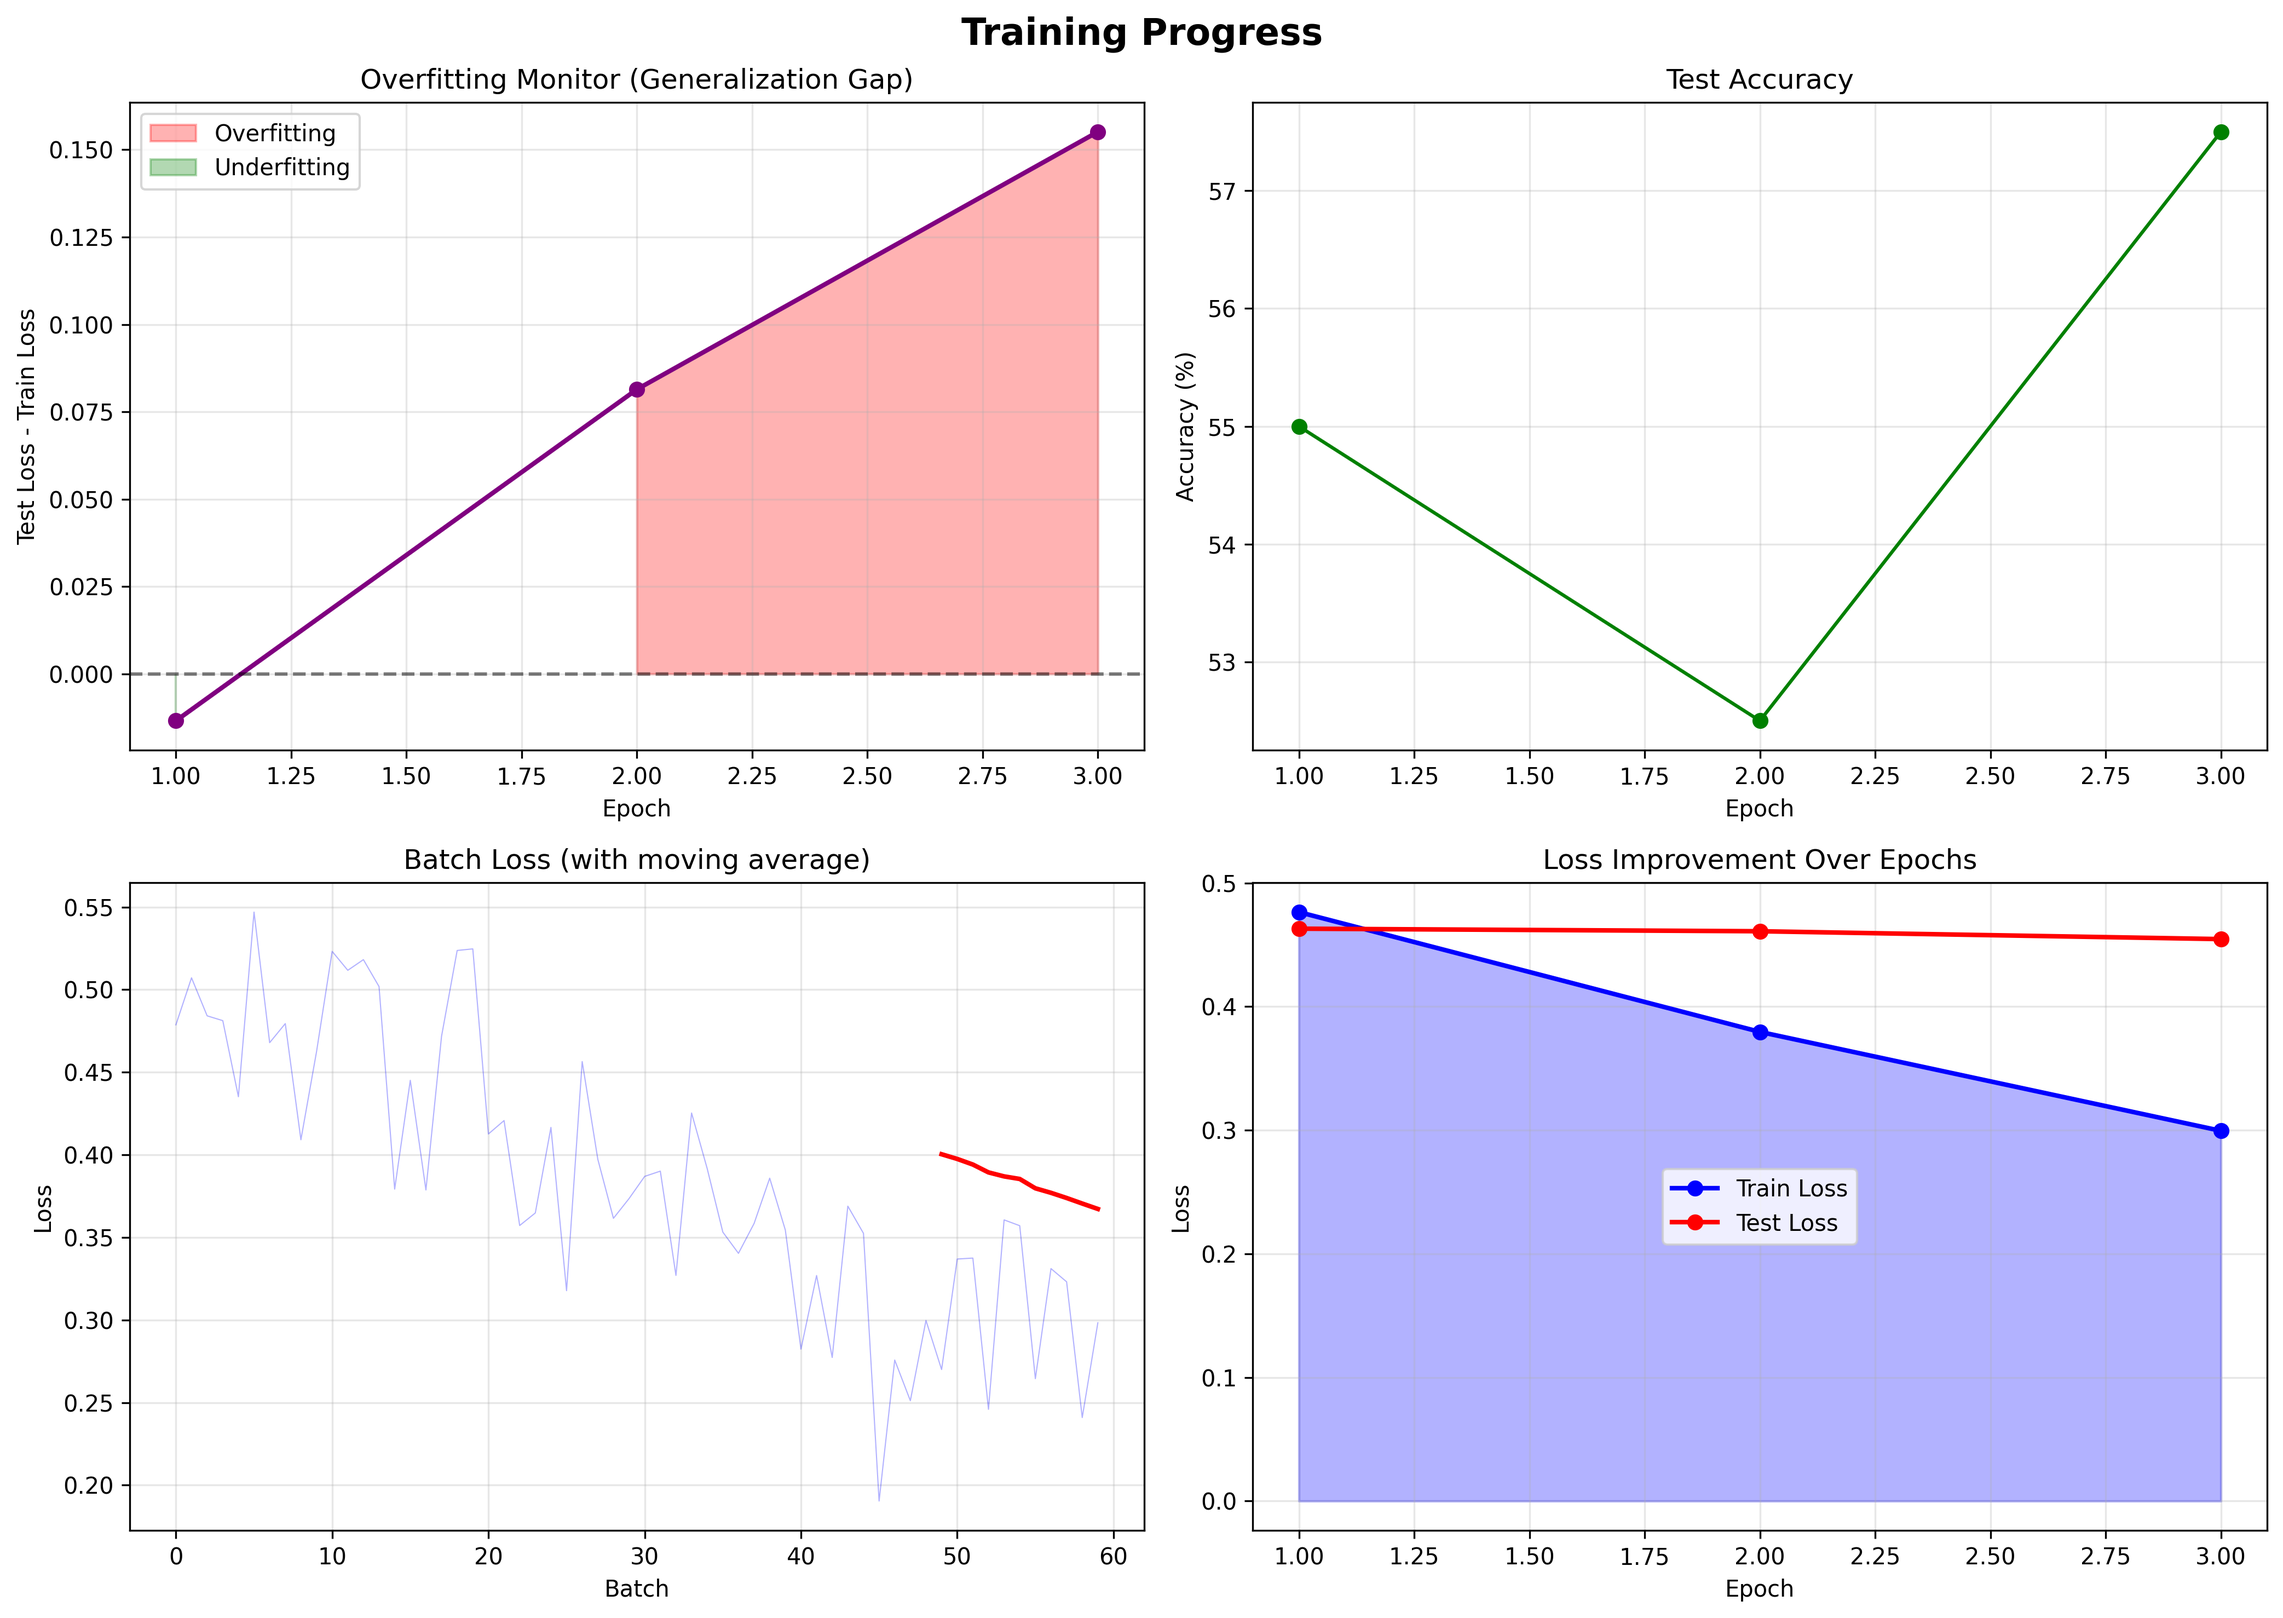
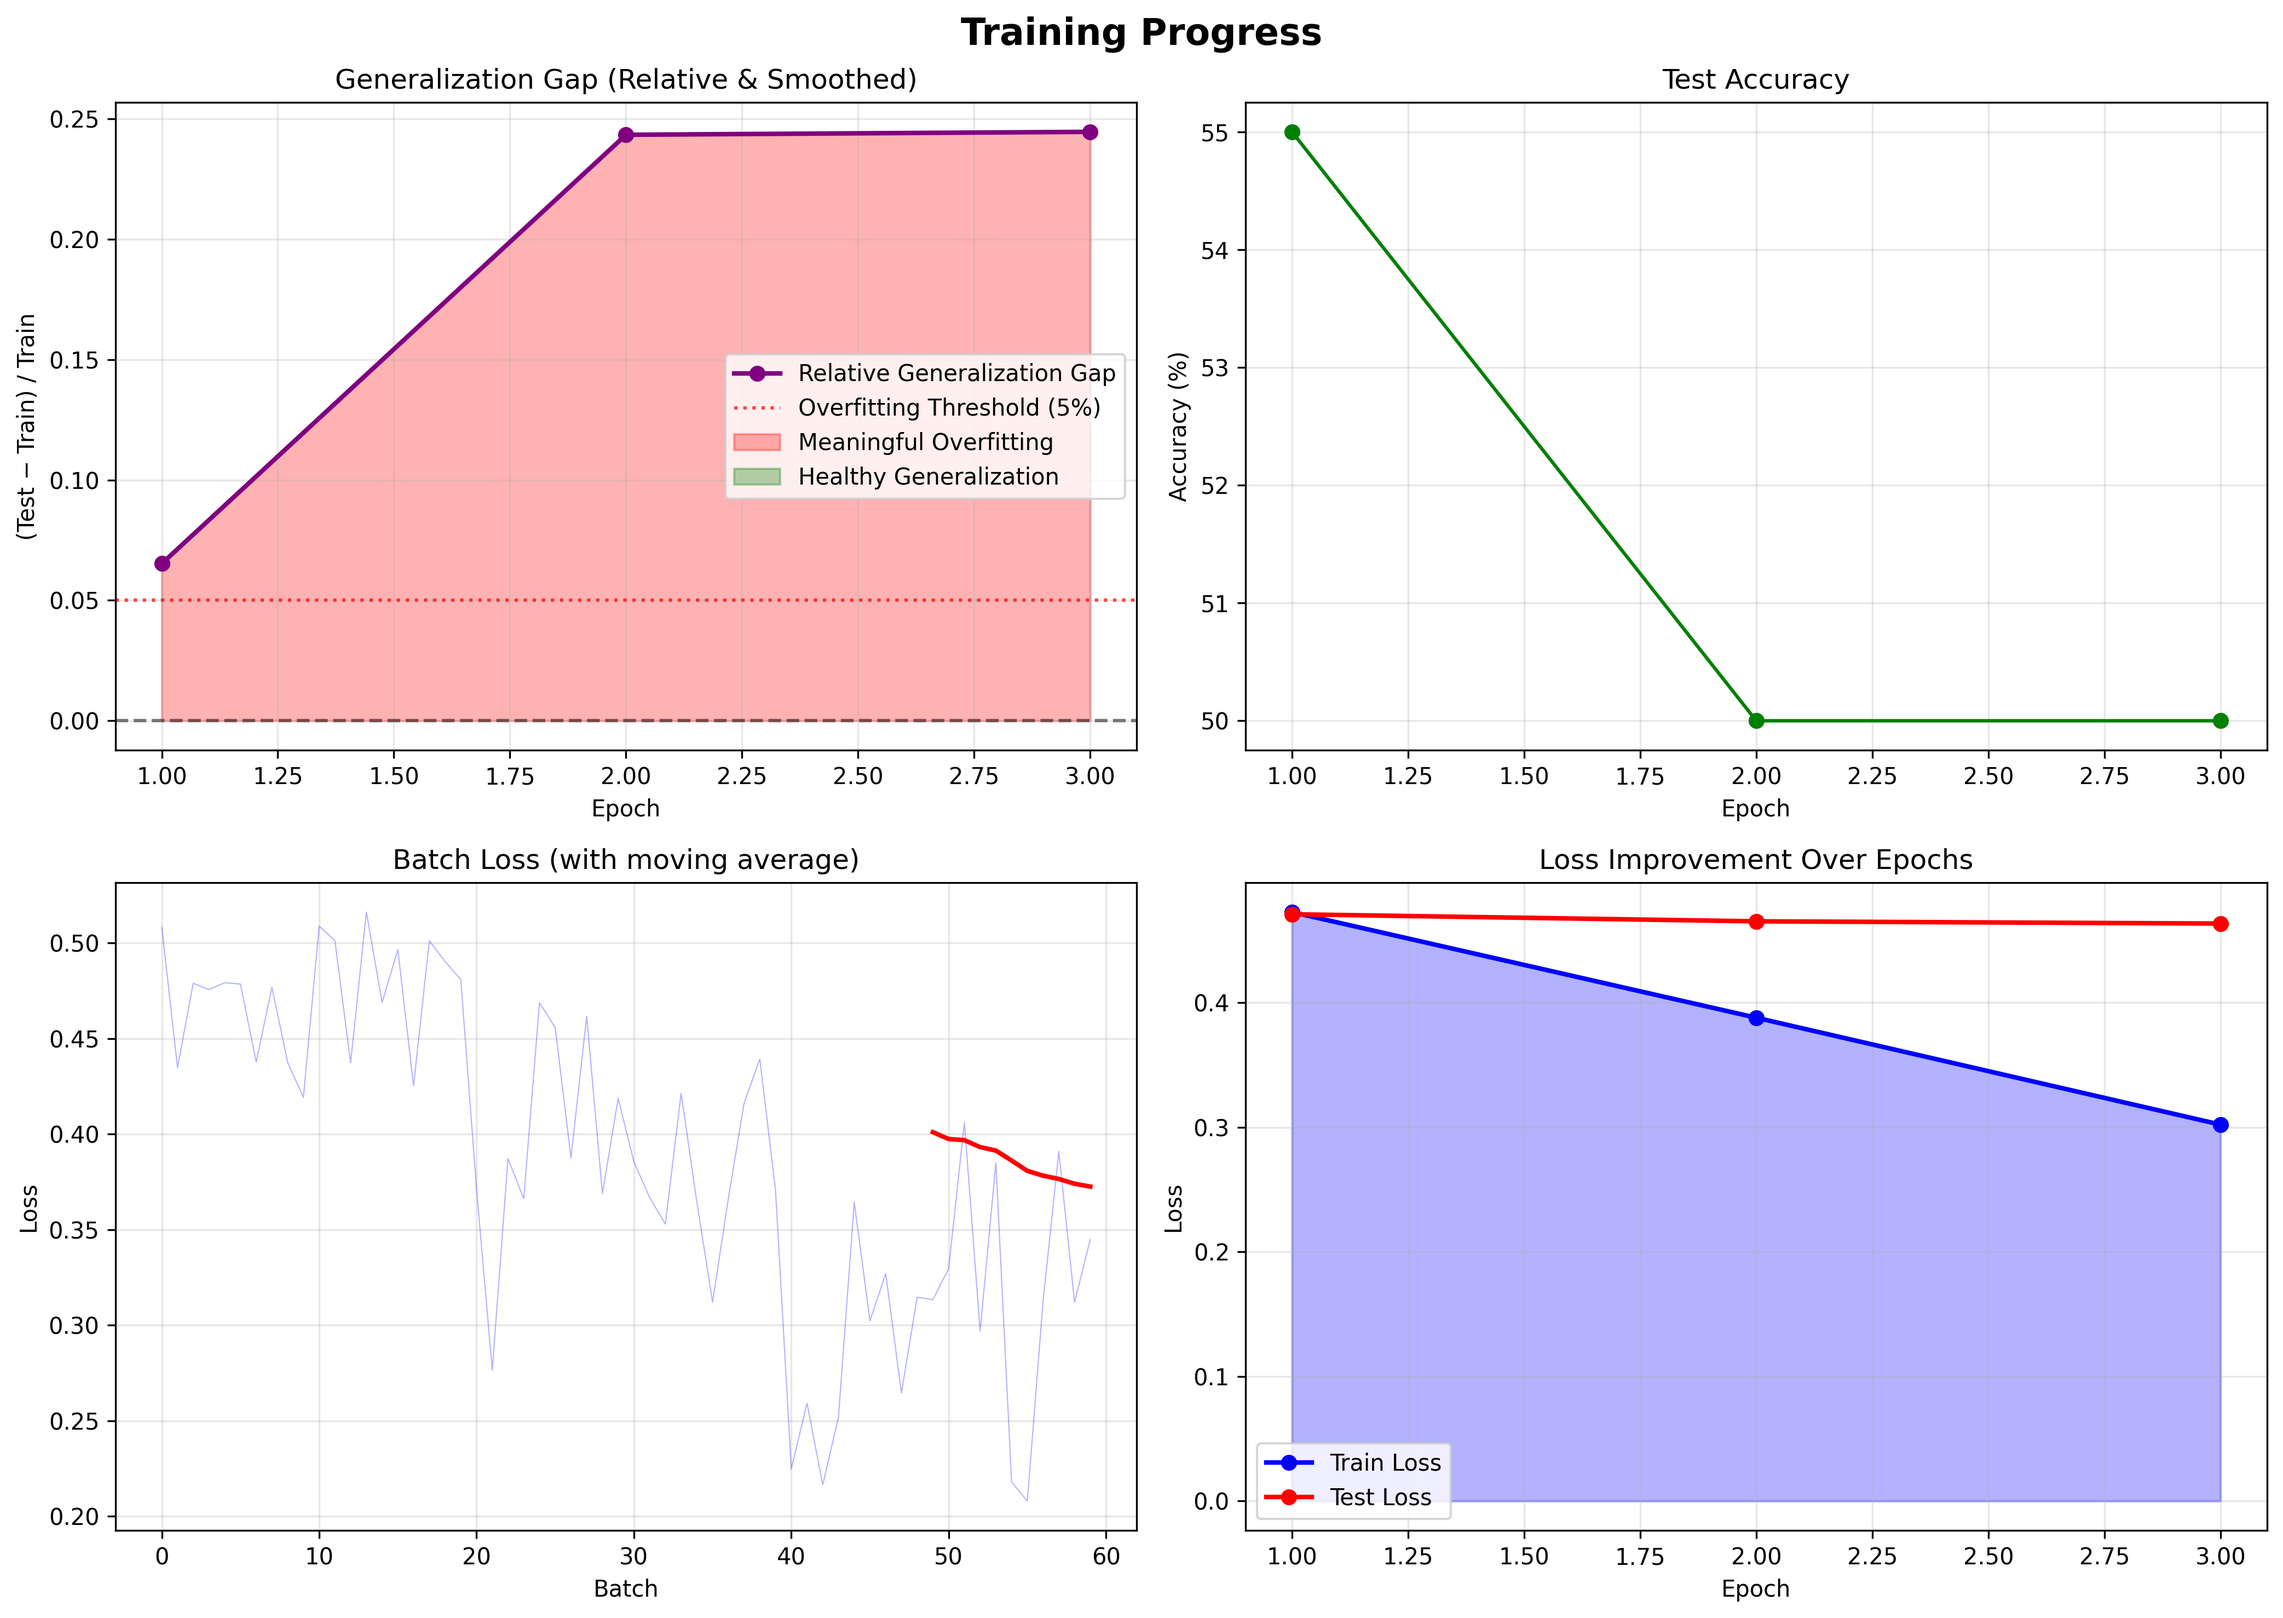
training e5 model in a new file track_b_e5.py

diff --git a/track_b_e5.py b/track_b_e5.py
@@ -35,7 +35,9 @@ def preprocess_text(text: str) -> str:
     return text
 
 
-def prepare_training_data(track_a_path: str, track_b_path: str, test_size: float = 0.2,
+def prepare_training_data(track_a_path: str,
+                          track_b_path: str,
+                          test_size: float = 0.2,
                          random_state: int = 42) -> Tuple:
     """
     Prepare training data from Track A labels and Track B texts.
@@ -59,14 +61,15 @@ def prepare_training_data(track_a_path: str, track_b_path: str, test_size: float
     train_examples = []
 
     for _, row in df_labels.iterrows():
-        anchor = row["anchor_text"]
+        # E5 prefixes
+        anchor = f"query: {row['anchor_text']}"
 
         if row["text_a_is_closer"]:
-            positive = row["text_a"]
-            negative = row["text_b"]
+            positive = f"passage: {row['text_a']}"
+            negative = f"passage: {row['text_b']}"
         else:
-            positive = row["text_b"]
-            negative = row["text_a"]
+            positive = f"passage: {row['text_b']}"
+            negative = f"passage: {row['text_a']}"
 
         # Create InputExample for SentenceTransformers
         train_examples.append(InputExample(texts=[anchor, positive, negative]))
@@ -124,72 +127,18 @@ def plot_training_progress(history: Dict, output_path: str):
 
     # 1. Train vs Test Loss
     # 4. Loss Margin (Difference between Train and Test Loss)
-
-    # --- Compute relative generalization gap ---
-    relative_gap = [
-        (test - train) / train
-        for test, train in zip(history['test_loss'], history['train_loss'])
-    ]
-
-    epochs = history['epoch']
-
-    # --- Smooth the signal (moving average) ---
-    window = 3
-    relative_gap_smooth = np.convolve(
-        relative_gap, np.ones(window) / window, mode='same'
-    )
-
-    # --- Define meaningful overfitting threshold (5%) ---
-    threshold = 0.05
-
-    # --- Plot ---
-    axes[0, 0].plot(
-        epochs,
-        relative_gap_smooth,
-        color='purple',
-        marker='o',
-        linewidth=2,
-        markersize=6,
-        label='Relative Generalization Gap'
-    )
-
-    # Zero reference
-    axes[0, 0].axhline(0, color='black', linestyle='--', alpha=0.5)
-
-    # Threshold reference
-    axes[0, 0].axhline(
-        threshold,
-        color='red',
-        linestyle=':',
-        alpha=0.7,
-        label='Overfitting Threshold (5%)'
-    )
-
-    # Fill areas
-    axes[0, 0].fill_between(
-        epochs,
-        0,
-        relative_gap_smooth,
-        where=[gap > threshold for gap in relative_gap_smooth],
-        alpha=0.3,
-        color='red',
-        label='Meaningful Overfitting'
-    )
-
-    axes[0, 0].fill_between(
-        epochs,
-        0,
-        relative_gap_smooth,
-        where=[gap <= threshold for gap in relative_gap_smooth],
-        alpha=0.3,
-        color='green',
-        label='Healthy Generalization'
-    )
-
-    # Labels
+    loss_gap = [test - train for test, train in zip(history['test_loss'], history['train_loss'])]
+    axes[0, 0].plot(history['epoch'], loss_gap, 'purple', marker='o', linewidth=2, markersize=6)
+    axes[0, 0].axhline(y=0, color='black', linestyle='--', alpha=0.5)
+    axes[0, 0].fill_between(history['epoch'], 0, loss_gap,
+                            where=[gap > 0 for gap in loss_gap],
+                            alpha=0.3, color='red', label='Overfitting')
+    axes[0, 0].fill_between(history['epoch'], 0, loss_gap,
+                            where=[gap <= 0 for gap in loss_gap],
+                            alpha=0.3, color='green', label='Underfitting')
     axes[0, 0].set_xlabel('Epoch')
-    axes[0, 0].set_ylabel('(Test − Train) / Train')
-    axes[0, 0].set_title('Generalization Gap (Relative & Smoothed)')
+    axes[0, 0].set_ylabel('Test Loss - Train Loss')
+    axes[0, 0].set_title('Overfitting Monitor (Generalization Gap)')
     axes[0, 0].legend()
     axes[0, 0].grid(True, alpha=0.3)
 
@@ -573,9 +522,18 @@ def main():
     # ============ CONFIGURATION ============
     MODE = "fine_tune"  # Options: "zero_shot", "fine_tune"
 
-    # Model selection - Consider using smaller models for CPU
-    MODEL_NAME = "sentence-transformers/all-MiniLM-L6-v2"  # Faster on CPU (384-dim)
+
+    # MODEL_NAME = "sentence-transformers/all-MiniLM-L6-v2"  # Faster on CPU (384-dim)
+    MODEL_NAME = "intfloat/e5-base-v2"  # changing the model
     # Alternative: "sentence-transformers/all-mpnet-base-v2" (768-dim, more accurate but slower)
+
+
+
+    TRAIN_TEST_SPLIT = 0.2
+    EPOCHS = 6  # Large models converge faster
+    BATCH_SIZE = 4  # Safer for GPU/VRAM
+    LEARNING_RATE = 1e-5  # Lower LR = more stable fine-tuning
+    MARGIN = 0.5
 
     # Fine-tuning parameters - CPU optimized
     # ENHANCED Fine-tuning parameters
@@ -584,11 +542,11 @@ def main():
     # BATCH_SIZE = 16  # Larger batches if you have RAM (use 12 if OOM)
     # LEARNING_RATE = 5e-5  # Higher initial LR for faster convergence
     # MARGIN = 0.3
-    TRAIN_TEST_SPLIT = 0.2  # 80% train, 20% test
-    EPOCHS = 3
-    BATCH_SIZE = 8  # Reduced for CPU efficiency
-    LEARNING_RATE = 2e-5
-    MARGIN = 0.5
+    # TRAIN_TEST_SPLIT = 0.2  # 80% train, 20% test
+    # EPOCHS = 3
+    # BATCH_SIZE = 8  # Reduced for CPU efficiency
+    # LEARNING_RATE = 2e-5
+    # MARGIN = 0.5
 
     # Evaluation parameters
     USE_E5_FORMAT = "e5" in MODEL_NAME.lower()
